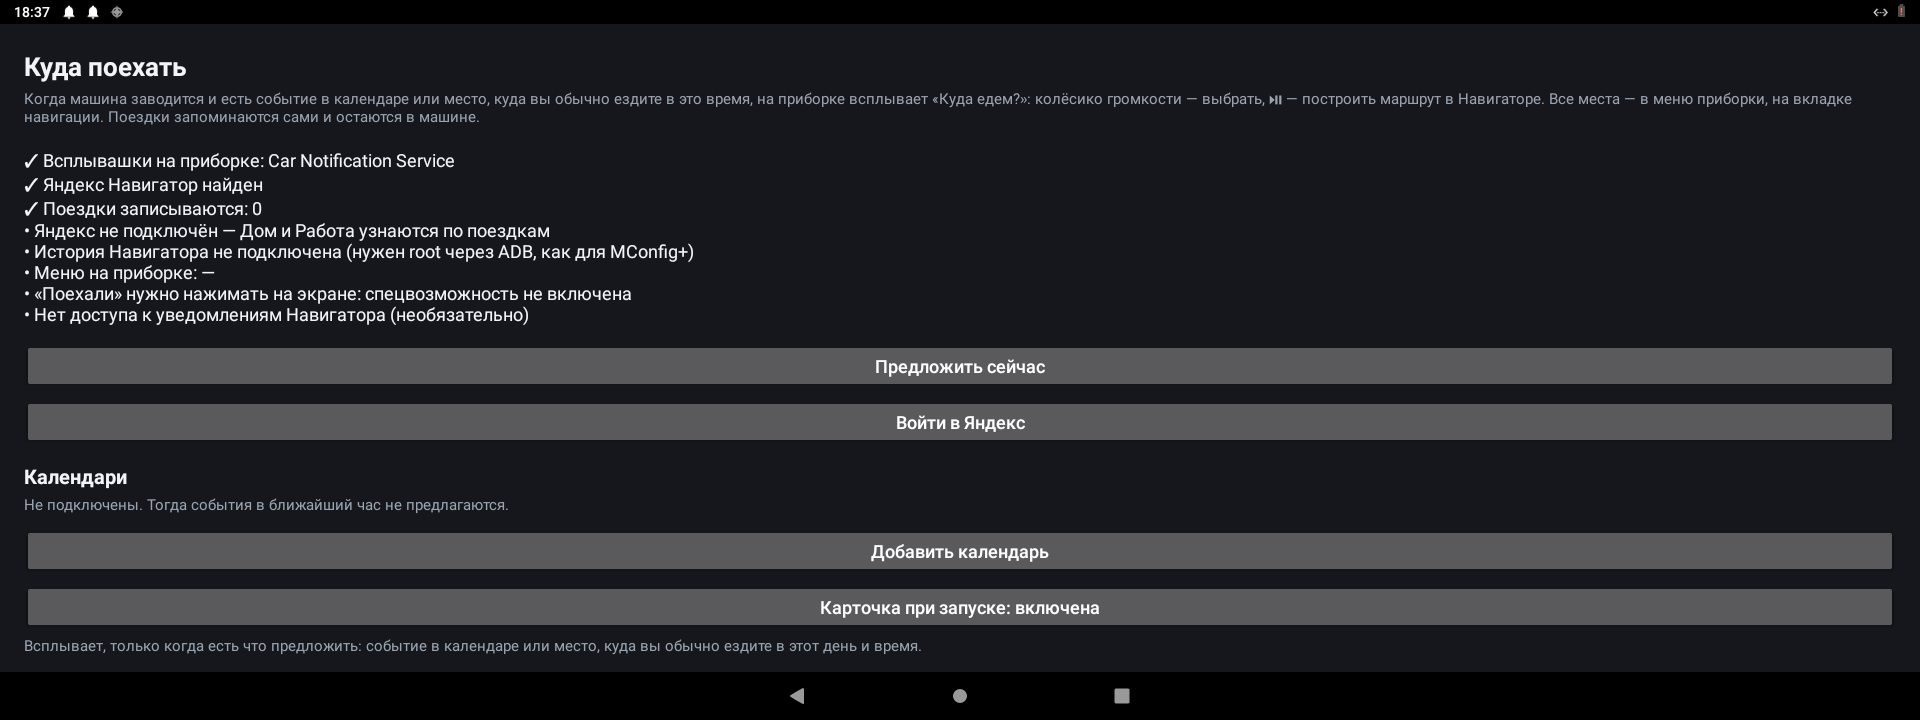
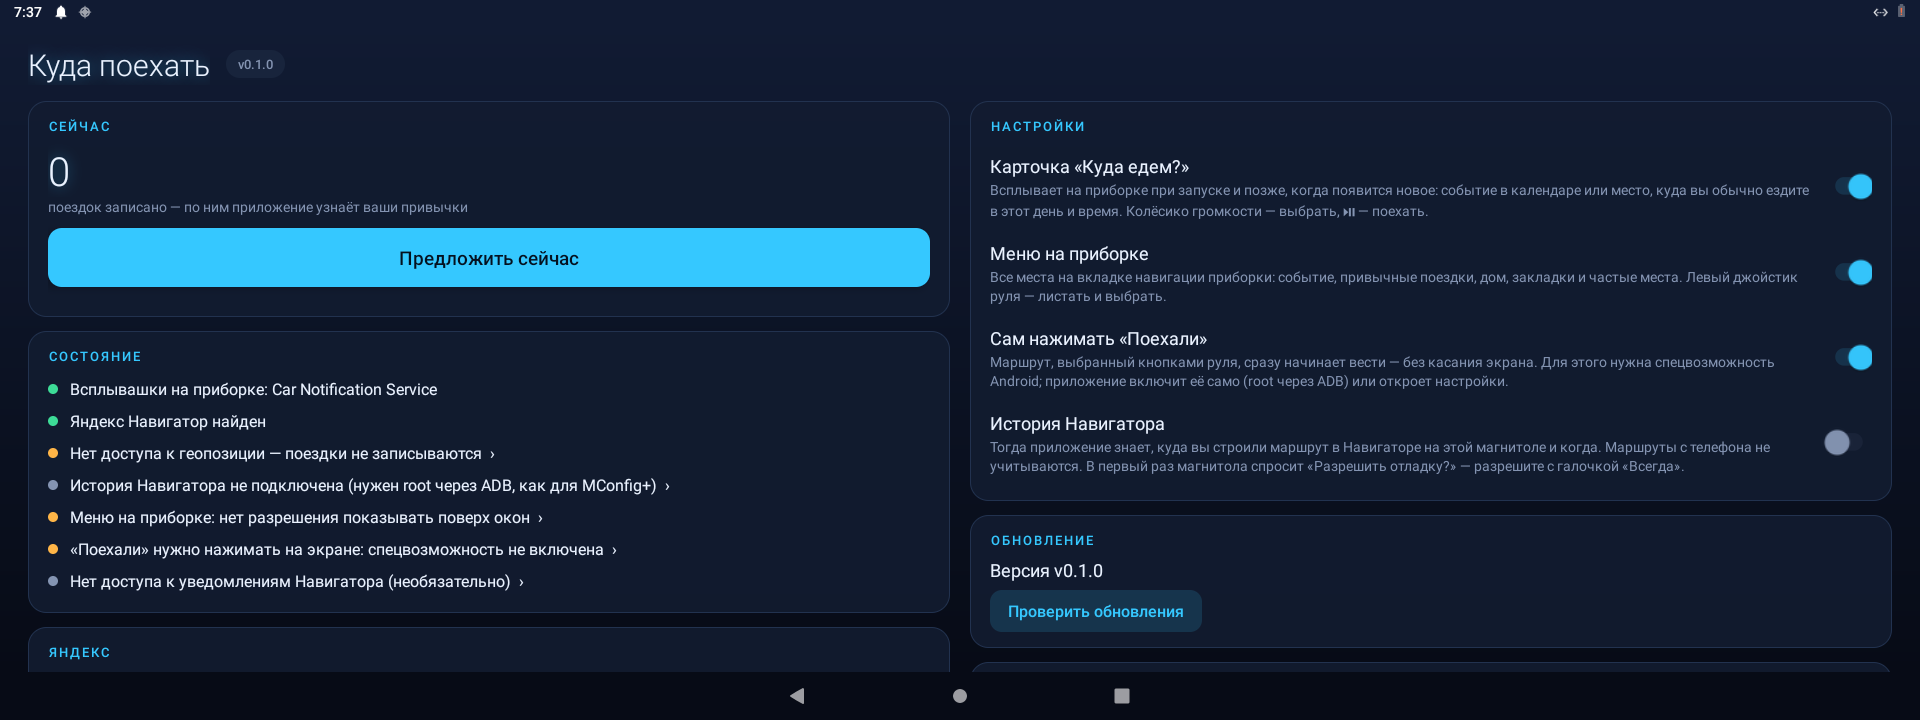
docs: the new screen, the update, the later card; the menu's trial by a tap on its state line
Claude-Session: https://claude.ai/code/session_01MoTGfM7vQjpr3c73JE3thy

diff --git a/app/src/main/java/com/smartcar/route/MainActivity.java b/app/src/main/java/com/smartcar/route/MainActivity.java
@@ -465,8 +465,10 @@ public final class MainActivity extends Activity {
             out.add(new State(Ui.TODO, getString(R.string.st_menu_missing), this::grantMenu));
         } else {
             boolean up = ClusterMenu.state.startsWith("подключено");
+            // A tap shows it for 30 s: to see how it looks.
             out.add(new State(up ? Ui.OK : Ui.OFF, getString(R.string.st_menu_ok,
-                    ClusterMenu.state.isEmpty() ? "—" : ClusterMenu.state), null));
+                    ClusterMenu.state.isEmpty() ? "—" : ClusterMenu.state),
+                    () -> RouteService.send(this, RouteService.ACTION_MENU_TRIAL)));
         }
         if (!AutoGoService.on(this)) {
             out.add(new State(Ui.OFF, getString(R.string.st_autogo_off), null));

diff --git a/README.md b/README.md
@@ -30,22 +30,26 @@ Android-приложение для головного устройства Geel
 4. **Частые места.** До трёх мест, куда ездили 3+ раз за 120 дней.
 
 Места, где машина уже стоит (ближе 300 м), не предлагаются. Одно место — одна строка.
-Карточка при запуске всплывает, **только если есть событие календаря или привычка** (пункты 1–2):
-дом, работа и частые места сами по себе её не вызывают — они в меню приборки. Если при запуске
-нет сети и календари не прочитались, приложение ещё 15 минут ждёт её и, найдя событие, показывает
-карточку тогда (поверх карточки по привычке, если та уже была). Карточку можно
-выключить в приложении («Карточка при запуске»). Висит 45 с. Если Навигатор уже ведёт по
-маршруту (например, продолжил его после пробуждения), карточка не показывается. Повторно — не
-раньше чем через 10 минут. Кнопка «Предложить сейчас» в приложении показывает её когда угодно,
-со всеми строками.
+Карточка всплывает, **только если есть событие календаря или привычка** (пункты 1–2): дом,
+работа и частые места сами по себе её не вызывают — они в меню приборки. Когда:
+
+- **при запуске** (загрузка магнитолы или пробуждение после 10+ минут стоянки);
+- **позже, когда появится новое**: пока магнитола включена, раз в 10 минут приложение
+  перечитывает календари и пересчитывает привычки — событие, пришедшее с синхронизацией, или
+  привычка, время которой наступило, дают карточку, если сегодня их ещё не предлагали;
+- если при запуске нет сети и календари не прочитались — как только она появится (до 15 минут).
+
+Карточку можно выключить в приложении. Висит 45 с. Пока Навигатор ведёт по маршруту, карточки
+нет; между карточками — не меньше 10 минут. «Предложить сейчас» показывает её когда угодно, со
+всеми строками.
 
 ## Меню на приборке
 
 На вкладке навигации штатного меню приборки (переключается кнопками руля) — список всех мест:
 события календаря, привычки, дом (или работа, если машина дома), затем закладки Яндекса и
 частые места (3+ поездки), по тому, сколько поездок заканчивалось там за 120 дней. Закладки,
-куда не ездили, — в конце. Левый джойстик руля листает, нажатие — маршрут и «Поехали». Пока
-Навигатор ведёт по маршруту, меню не открывается (на вкладке остаётся карта).
+куда не ездили, — в конце. Левый джойстик руля листает, нажатие — маршрут и «Поехали». Меню
+открыто, пока открыта вкладка, и после выбора не пропадает.
 
 ![Меню на приборке: Домой, Ice Power, Аэропорт Шереметьево, Дача, На работу](docs/screenshots/cluster-menu.png)
 
@@ -59,7 +63,8 @@ Android-приложение для головного устройства Geel
 `ecarx.intent.action.ECARX_KEY_DIMSCROLLUP_EVENT` / `…DIMSCROLLDOWN…` / `…DIMCONFIRM…`. Сам
 список — наше окно поверх дисплея приборки (№ 2) на месте панели вкладки. Нужно разрешение
 «поверх окон» — приложение даёт его себе само через root (ADB) или открывает настройки.
-«Показать меню на 30 секунд» в приложении — проверить, как оно выглядит.
+Тап по строке «Меню на приборке» в приложении показывает меню на 30 секунд — посмотреть, как
+оно выглядит.
 
 Названия мест берутся по порядку из закладок и Дома/Работы Яндекса (в радиусе 200 м), из
 строки, выбранной для этой поездки, из адреса (OpenStreetMap Nominatim, один запрос на поездку).
@@ -69,7 +74,11 @@ Android-приложение для головного устройства Geel
 
 1. Скачать APK из [Releases](https://github.com/smart-car-software/route-suggest/releases) и
    установить. Нужен Car Notification Service (без него список откроется на экране магнитолы).
-2. Открыть «Куда поехать» и разрешить геопозицию.
+2. Открыть «Куда поехать». Приложение по очереди спросит, что нужно разрешить: геопозицию,
+   показ поверх окон (меню на приборке), спецвозможность «Поехали», историю Навигатора (root
+   через ADB — магнитола спросит «Разрешить отладку?», ответить «Всегда»), уведомления
+   Навигатора. Каждый вопрос — один раз; то, что пропущено, видно в «Состоянии», тап по строке
+   спрашивает снова. Настройки — переключатели справа.
 3. **Войти в Яндекс** (по желанию, но так лучше): на экране появится QR-код. Навести на него
    камеру телефона, открыть ссылку и подтвердить вход в приложении Яндекс. Пароль не нужен.
    После этого приложение знает Дом, Работу и закладки и обновляет их раз в 6 часов.
@@ -78,6 +87,12 @@ Android-приложение для головного устройства Geel
 5. **Доступ к уведомлениям Навигатора** (по желанию): тогда приложение видит, что Навигатор
    уже ведёт по маршруту, и не спрашивает зря. В Навигаторе должна быть включена «Фоновая
    навигация».
+
+**Обновление** — из самого приложения, панель «Обновление»: при открытии (не чаще раза в 6
+часов) приложение смотрит последний GitHub Release и, если он новее, показывает «Обновить до
+vX». Ставится только по кнопке: тихо через root (ADB магнитолы), если он уже подключён, иначе
+установщиком Android, который попросит подтвердить (и в первый раз — разрешить установку из
+этого приложения). Подпись та же, данные остаются.
 
 ## Данные Навигатора: что удалось получить
 

diff --git a/CLAUDE.md b/CLAUDE.md
@@ -36,6 +36,15 @@ The user's Mac has a Claude session with Android Studio and an Android 9 arm64 e
   first fix / screen-on after 10+ minutes off) — only when `Suggester.worthAsking` (an event or
   a routine; the user's requirement), and the card can be switched off. `ReplyReceiver` gets
   the wheel's answer.
+- `RouteService` also rechecks every 10 minutes while the unit is on: an event or a routine not
+  offered yet today (`Suggester.explicitKeys`) brings the card (the user's requirement).
+- UI (`Ui`, `MainActivity`, `CalendarActivity`): the cluster's look (MSpeed: night blue, cyan
+  accent), views in code; settings are toggles; Android's permissions are asked in dialogs on
+  opening, once each (prefs `asked`), and a state line that needs something is tappable — no
+  static grant buttons (the user's requirement).
+- `Updater`: the latest GitHub Release of this (public) repo, installed by the button only (the
+  user's choice): `pm install -r` as root through the unit's adb, else PackageInstaller with
+  Android's confirmation. Same signing key.
 - `ClusterMenu`: every place (`Suggester.menu`) on the cluster menu's navigation tab. ECarX's
   `DimMenuInteraction` by reflection (`onTabChanged`, tab 2), the left joystick as
   `ECARX_KEY_DIM*` broadcasts, our overlay on display 2 at 740/720, 414×284 — all learned from
